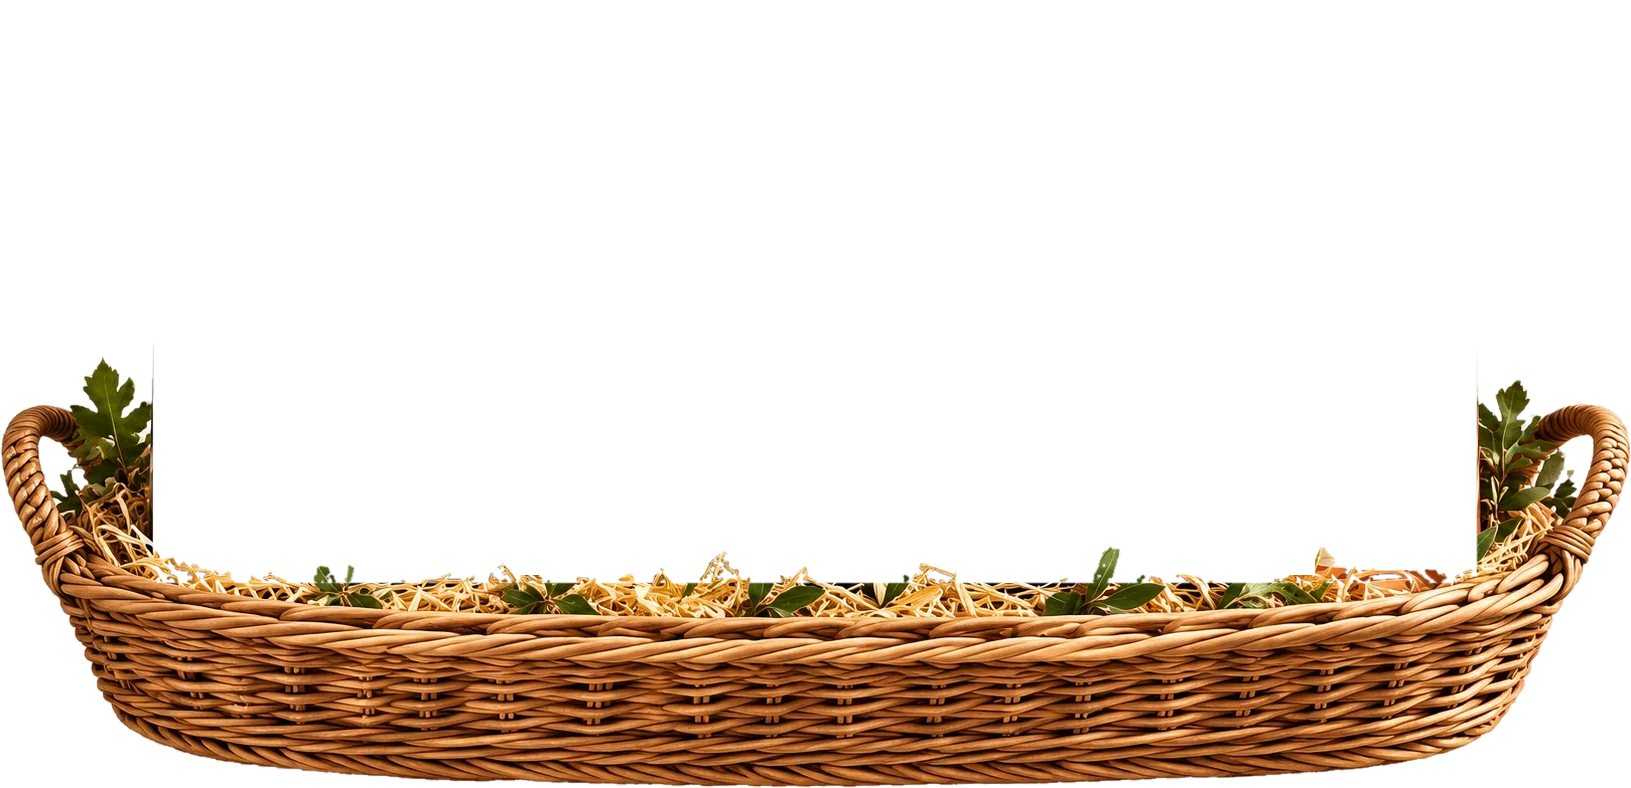
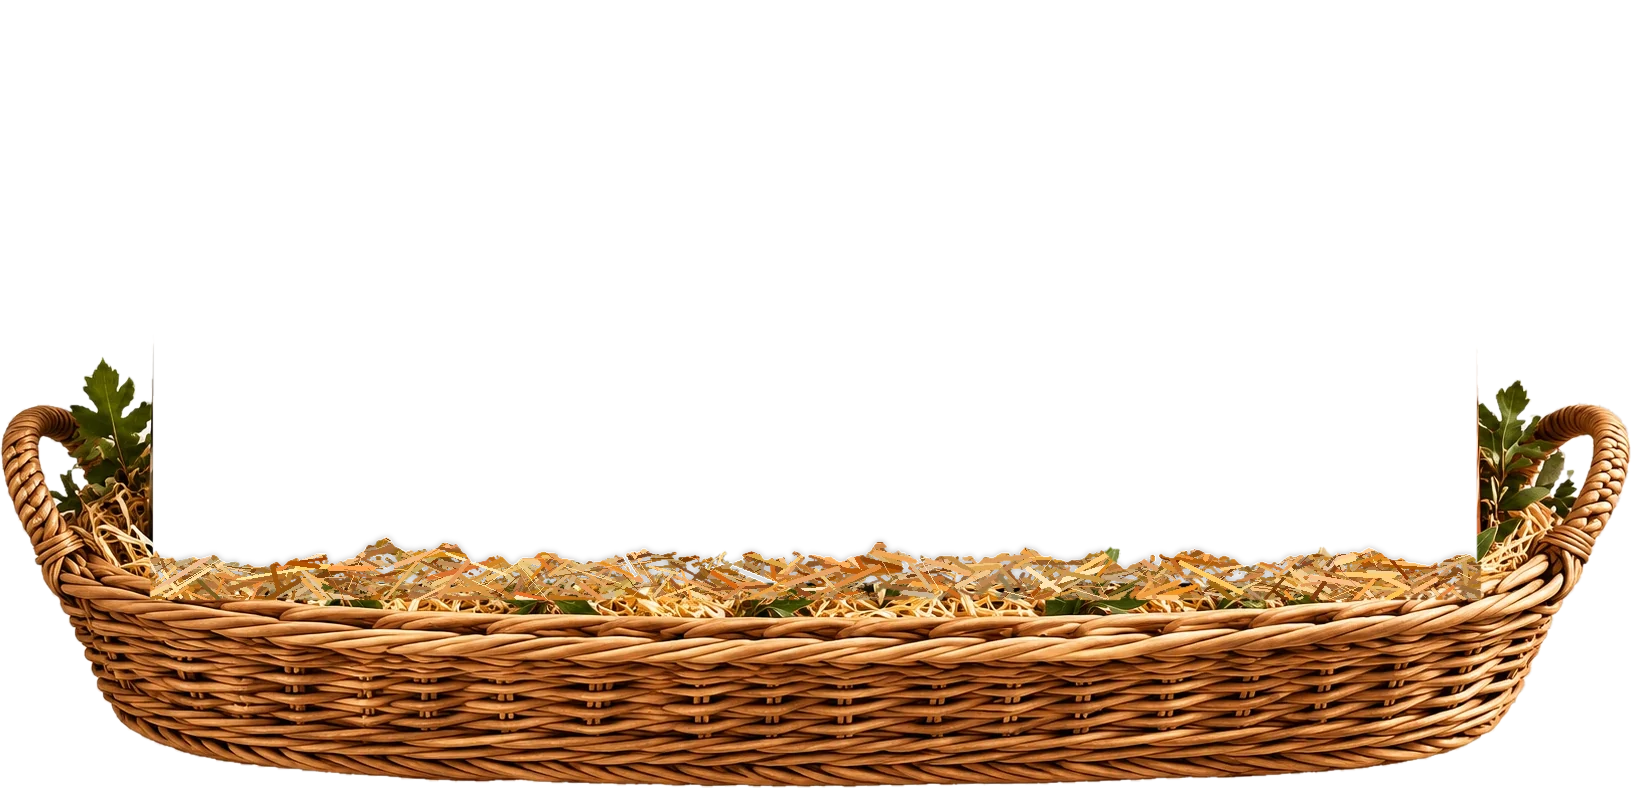
Fill the basket with straw behind and around the bottles
A bed of straw now fills the basket behind the bottles, so a bottle lifted
out leaves straw behind it rather than the soil, and loose strands rise
unevenly over the rim in front of their feet instead of a straight edge.

Claude-Session: https://claude.ai/code/session_01N1zkf8bkxQHkhdCxTQ4Zvu

Changed region(s): [[0.092, 0.6701, 0.9197, 0.7614]]

diff --git a/src/components/basket-photo.tsx b/src/components/basket-photo.tsx
@@ -21,6 +21,7 @@ const FRAME = { width: PHOTO_W, top: PHOTO_TOP + HEADROOM, height: PHOTO_H + HEA
  */
 export function BasketPhoto({
   src,
+  back,
   bottles,
   estateName,
   hovered,
@@ -28,6 +29,8 @@ export function BasketPhoto({
   onPick,
 }: {
   src: string
+  /** The straw inside the basket, behind the bottles. */
+  back: string
   bottles: BottleSpec[]
   estateName: string
   hovered: number | null
@@ -45,6 +48,14 @@ export function BasketPhoto({
         <div
           aria-hidden
           className="absolute bottom-[1%] left-[10%] right-[8%] h-[8%] rounded-[50%] bg-black/60 blur-md"
+        />
+        <img
+          src={back}
+          alt=""
+          aria-hidden
+          decoding="async"
+          draggable={false}
+          className="pointer-events-none absolute inset-0 h-full w-full select-none [filter:saturate(0.92)_brightness(0.93)_sepia(0.08)]"
         />
         <div className="absolute inset-x-0 bottom-0" style={{ top: `${(-HEADROOM / PHOTO_H) * 100}%` }}>
           <Suspense fallback={null}>

diff --git a/src/data/images.ts b/src/data/images.ts
@@ -28,6 +28,8 @@ export const images = {
    * on that soil. Null shows the bottles in a basket drawn in 3D instead.
    */
   basketPhoto: asset("photos/panier-devant.webp") as string | null,
+  /** The straw filling that basket, behind the bottles (seen when one is lifted out). */
+  basketBack: asset("photos/panier-fond.webp"),
   /** The same soil, faint behind the home page's cards under the hero (a strip without the corner stones). */
   soil: asset("photos/terre.webp") as string | null,
   /** Beside the estate's history. */

diff --git a/src/components/sections/hero.tsx b/src/components/sections/hero.tsx
@@ -147,6 +147,7 @@ export function Hero() {
             {images.basketPhoto ? (
               <BasketPhoto
                 src={images.basketPhoto}
+                back={images.basketBack}
                 bottles={wines}
                 estateName={estate.name}
                 hovered={hovered}
